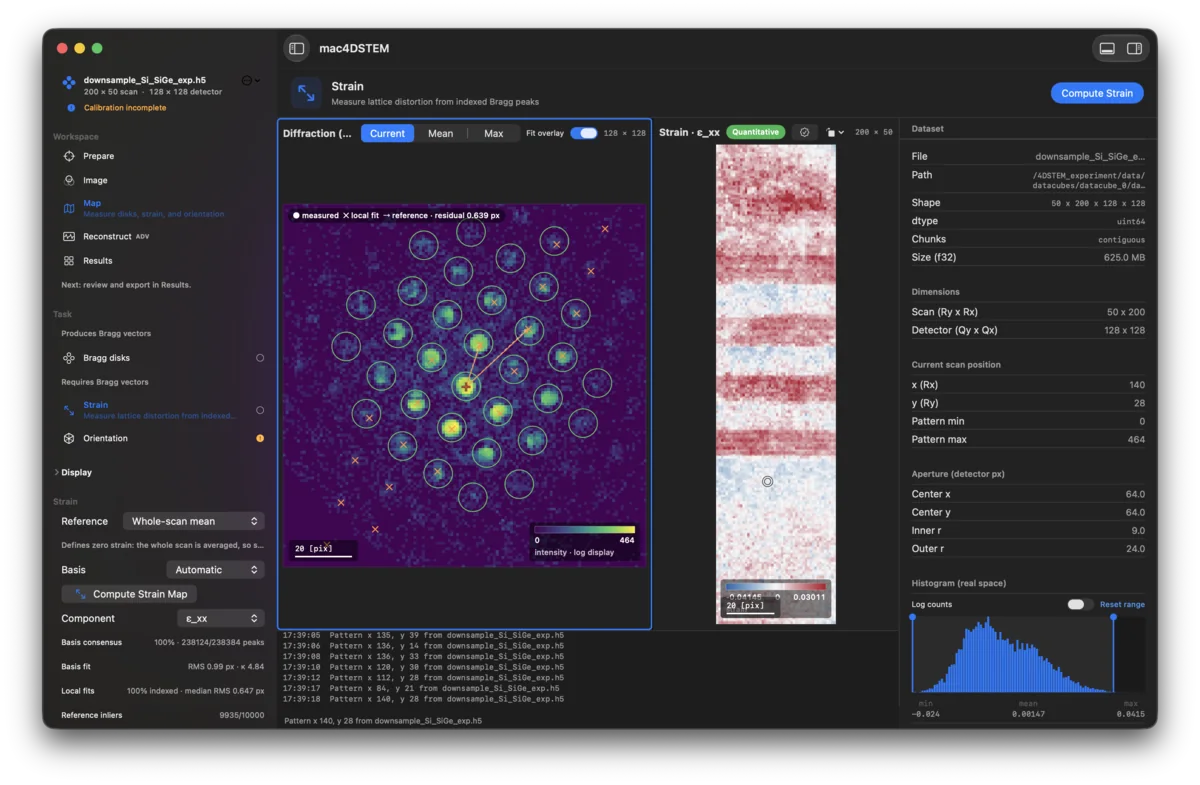
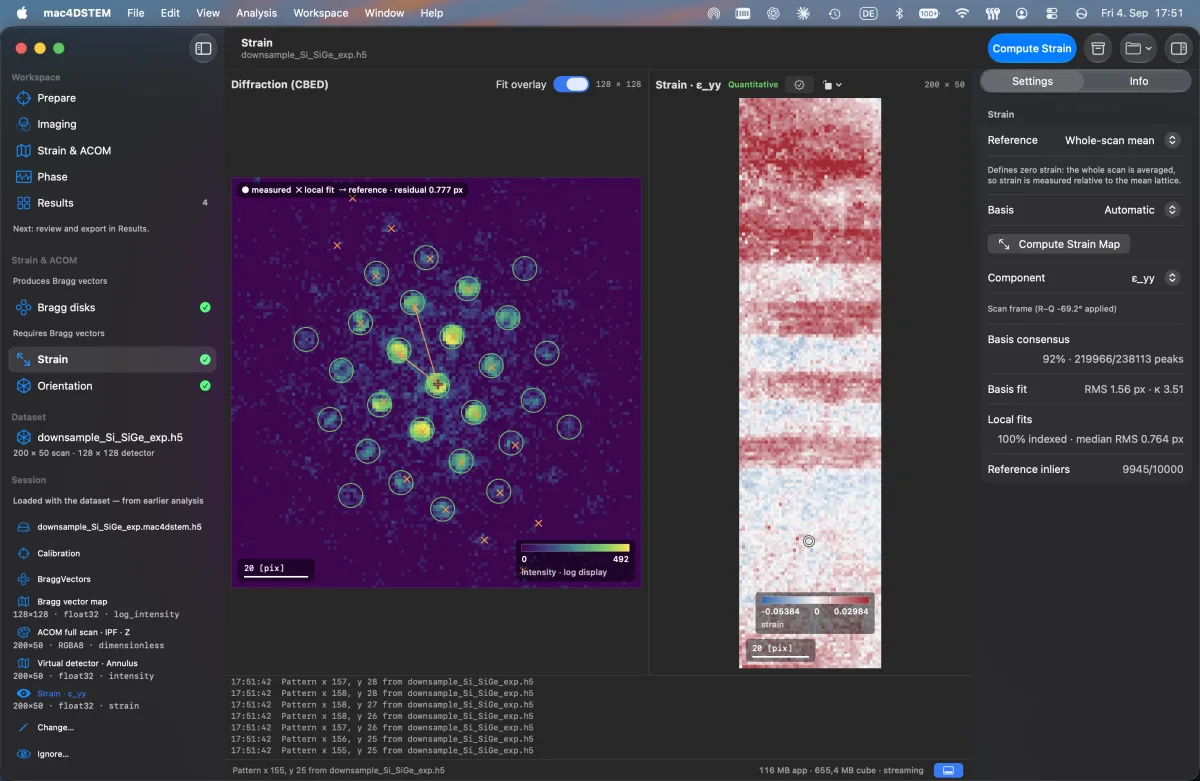
v2.5.0: correct the macOS requirement, refresh the version and the screenshot
The download page promised macOS 14 in four places while the application's floor
is enforced at 26 (MACOSX_DEPLOYMENT_TARGET, asserted by package-test). Every
visitor on Sonoma or Sequoia was being offered a disk image that cannot launch;
that has been wrong since v1.0.0. Corrected in index.html and support.html.

Version 1.0 to 2.5 throughout, including the JSON-LD softwareVersion and
operatingSystem, and the download size to the real 6.1 MB artefact.

Screenshot replaced with a 2026-09-04 capture of the rebuilt SwiftUI window: the
Strain & ACOM workspace. The previous one showed the AppKit window, which no
longer exists. The alt text described an epsilon-xx map while the image showed
epsilon-yy; it now describes what is actually there.

diff --git a/index.html b/index.html
@@ -17,7 +17,7 @@
 <meta property="og:image" content="https://mac4dstem.com/assets/og.jpg">
 <meta property="og:image:width" content="1200">
 <meta property="og:image:height" content="630">
-<meta property="og:image:alt" content="The mac4DSTEM strain-mapping workspace on macOS.">
+<meta property="og:image:alt" content="The mac4DSTEM Strain workspace on macOS: a diffraction pattern with fitted Bragg disks beside its strain map.">
 <meta name="twitter:card" content="summary_large_image">
 
 <link rel="icon" href="/assets/favicon.ico" sizes="any">
@@ -498,7 +498,7 @@
 
   <div class="wrap">
     <section class="hero">
-      <p class="eyebrow">Version 1.0 — available now</p>
+      <p class="eyebrow">Version 2.5 — available now</p>
 
       <div class="hero-head">
         <img class="hero-logo" src="/assets/icon-512.png" alt="" width="512" height="512">
@@ -516,11 +516,11 @@
         <a class="get-btn" href="https://github.com/mac4DSTEM/mac4DSTEM/releases/latest/download/mac4DSTEM.dmg">
           <span aria-hidden="true">↓</span> Download for macOS
         </a>
-        <p class="get-meta">Version 1.0 · 5.1 MB · signed and notarized</p>
+        <p class="get-meta">Version 2.5 · 6.1 MB · signed and notarized</p>
       </div>
 
       <ul class="specs">
-        <li>macOS 14+</li>
+        <li>macOS 26+</li>
         <li>Apple silicon</li>
         <li>Metal &amp; MLX</li>
         <li>GPL-3.0</li>
@@ -599,7 +599,7 @@
           <img
             src="/assets/workspace.png"
             width="1600" height="1046"
-            alt="The mac4DSTEM strain workspace. A convergent-beam diffraction pattern with detected Bragg disks and lattice fit overlay sits beside the resulting epsilon-xx strain map, with dataset metadata, calibration, and fit diagnostics in side panels."
+            alt="The mac4DSTEM Strain workspace. A convergent-beam diffraction pattern with detected Bragg disks and lattice fit overlay sits beside the resulting epsilon-yy strain map, with the session sidebar on the left and fit diagnostics in the inspector."
             loading="lazy" decoding="async">
         </picture>
         <figcaption>
@@ -720,12 +720,12 @@
 
       <ol class="steps">
         <li data-state="done">
-          <h3>Version 1.0 complete</h3>
+          <h3>Version 2.5 complete</h3>
           <p>The analysis workflow is finished and covered by automated tests, including parity harnesses measured against py4DSTEM on experimental data.</p>
         </li>
         <li data-state="done">
           <h3>Download</h3>
-          <p>Version 1.0 is <a href="https://github.com/mac4DSTEM/mac4DSTEM/releases/latest/download/mac4DSTEM.dmg">available as a signed, notarized disk image</a>. Open it and drag mac4DSTEM to your Applications folder — it launches without a security warning, and needs nothing else installed.</p>
+          <p>Version 2.5 is <a href="https://github.com/mac4DSTEM/mac4DSTEM/releases/latest/download/mac4DSTEM.dmg">available as a signed, notarized disk image</a>. Open it and drag mac4DSTEM to your Applications folder — it launches without a security warning, and needs nothing else installed.</p>
         </li>
         <li data-state="done">
           <h3>Source release</h3>
@@ -738,7 +738,7 @@
       </ol>
 
       <p class="band-note">
-        Requires macOS 14 or later on Apple silicon. No external runtime, toolchain, or library
+        Requires macOS 26 or later on Apple silicon. No external runtime, toolchain, or library
         installation is needed — all dependencies are contained within the application. The Merlin
         MIB and EMPAD RAW readers are preview-grade pending further vendor data.
       </p>
@@ -780,8 +780,8 @@
   "name": "mac4DSTEM",
   "url": "https://mac4dstem.com/",
   "applicationCategory": "ScientificApplication",
-  "operatingSystem": "macOS 14 or later, Apple silicon",
-  "softwareVersion": "1.0.0",
+  "operatingSystem": "macOS 26 or later, Apple silicon",
+  "softwareVersion": "2.5.0",
   "license": "https://www.gnu.org/licenses/gpl-3.0.html",
   "description": "A free, native macOS application for interactive 4D-STEM analysis: virtual imaging, Bragg disk detection, strain and orientation mapping, and phase reconstruction, computed on the GPU.",
   "screenshot": "https://mac4dstem.com/assets/workspace.png",

diff --git a/support.html b/support.html
@@ -55,7 +55,7 @@
       <h2>Requirements</h2>
 
       <ul>
-        <li><strong>macOS 14 (Sonoma) or later.</strong></li>
+        <li><strong>macOS 26 or later.</strong></li>
         <li><strong>Apple silicon</strong> — M-series Macs. Intel Macs are not supported.</li>
         <li>No external runtime, toolchain, Python environment, or library installation. Every dependency ships inside the application bundle.</li>
         <li>Enough free disk space for your datasets and any exported products. Memory needs scale with scan and detector size.</li>
